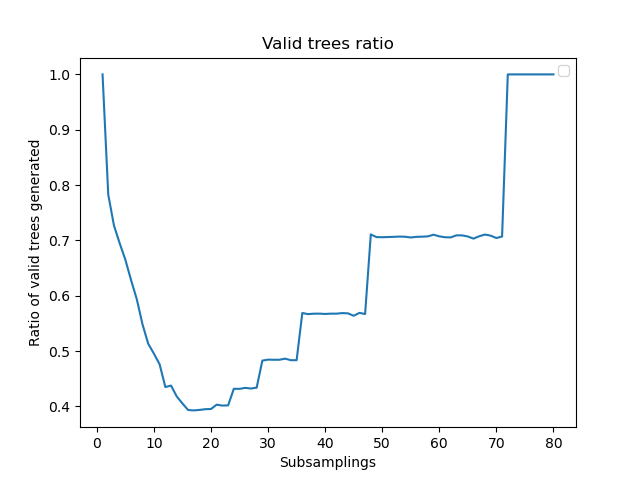
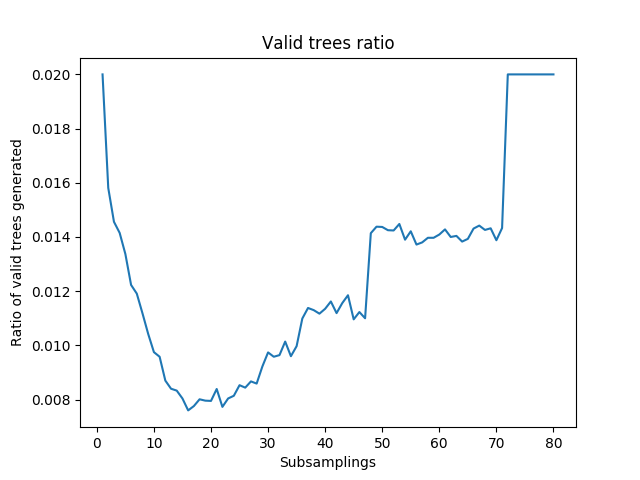
rForests : the rick and morty update

diff --git a/project.py b/project.py
@@ -1,6 +1,8 @@
 import csv
 import sys
 
+import pickle
+
 from moteur_id3.noeud_de_decision import NoeudDeDecision
 from moteur_id3.id3 import ID3
 
@@ -17,6 +19,10 @@ from moteur_diagnostic.first_year_md import FirstYearMedSchool
 from moteur_diagnostic.docteur import Docteur
 
 import matplotlib.pyplot as plt
+
+def iTurnedMyselfIntoAPickleMorty(obj, filename):
+    with open(filename, 'wb') as output:  # Overwrites any existing file.
+        pickle.dump(obj, output, pickle.HIGHEST_PROTOCOL)
 
 class ResultValues():
 
@@ -69,24 +75,33 @@ class ResultValues():
         print("Task 2 bis")
         
         rForest = RandomForest()
-        subsamplings = list(range(1,81))
+        subsamplings = list(range(1,81,5))
         invalid_trees_ratios =[]
+        iSpeakForTheTrees = []
         for x in subsamplings:
             test_invalid_ratio = []
-            for i in range(100):
+            for i in range(1):
                 rForest.generate_trees(train_bin,x,1000)
-                rForest.select_valid_trees(train_bin)
+                iSpeakForTheTrees.append(rForest.select_valid_trees(train_bin)[1])
                 test_invalid_ratio.append(rForest.valid_trees_ratio())
             
-            invalid_trees_ratios.append(sum(test_invalid_ratio)/100)
+            invalid_trees_ratios.append(sum(test_invalid_ratio)/1)
         
-        plt.plot(subsamplings,invalid_trees_ratios)
+        rick = [subsamplings,invalid_trees_ratios]
+
+        iTurnedMyselfIntoAPickleMorty(rick,"graph.pkl")
+
+        lorax = iSpeakForTheTrees
+
+        iTurnedMyselfIntoAPickleMorty(lorax,"trees.pkl")
+        
+        """plt.plot(subsamplings,invalid_trees_ratios)
         plt.title("Valid trees ratio")
         plt.xlabel('Subsamplings')
         plt.ylabel('Ratio of valid trees generated')
         #plt.legend()
         
-        plt.savefig("Valid_trees_ratio.png")
+        plt.savefig("Valid_trees_ratio.png")"""
         print("---------------------------------------------------------------------------------------------------------")
         """
         print("Task 3")

diff --git a/treeViewer.py b/treeViewer.py
@@ -1,0 +1,25 @@
+import sys
+import pickle
+
+
+from moteur_id3.noeud_de_decision import NoeudDeDecision
+from moteur_id3.id3 import ID3
+
+from moteur_id3.arbre import Arbre
+
+from moteur_id3.noeud_de_decision_continu import NoeudDeDecision_continu
+from moteur_id3.id3_continu import ID3_continu
+
+from bin_test import BinTestEnv
+from continuous_test import ContinuousTestEnv
+from random_forest import RandomForest
+from moteur_diagnostic.first_year_md import FirstYearMedSchool
+
+from moteur_diagnostic.docteur import Docteur
+
+rick = []
+
+with open('trees.pkl', 'rb') as input:
+    rick = pickle.load(input)
+
+print((rick))

diff --git a/random_forest.py b/random_forest.py
@@ -36,6 +36,8 @@ class RandomForest:
         binTest = BinTestEnv()
         for item in train_sets:
             self.trees.append(id3.construit_arbre(item))
+
+        return self.trees
     
     def select_valid_trees(self,train_data):
         print("Evaluating trees ...")
@@ -48,6 +50,8 @@ class RandomForest:
                 pass
             else:
                 self.valid_trees_accuracy.append((accuracy, tree))
+
+        return self.valid_trees_accuracy
     
     def valid_trees_ratio(self):
         return len(self.valid_trees_accuracy)/len(self.trees)

diff --git a/grapher.py b/grapher.py
@@ -1,0 +1,15 @@
+import sys
+import pickle
+import matplotlib.pyplot as plt
+
+rick = []
+
+with open('graph.pkl', 'rb') as input:
+    rick = pickle.load(input)
+
+plt.plot(rick[0], rick[1])
+plt.title("Valid trees ratio")
+plt.xlabel('Subsamplings')
+plt.ylabel('Ratio of valid trees generated')
+plt.legend()
+plt.show()
